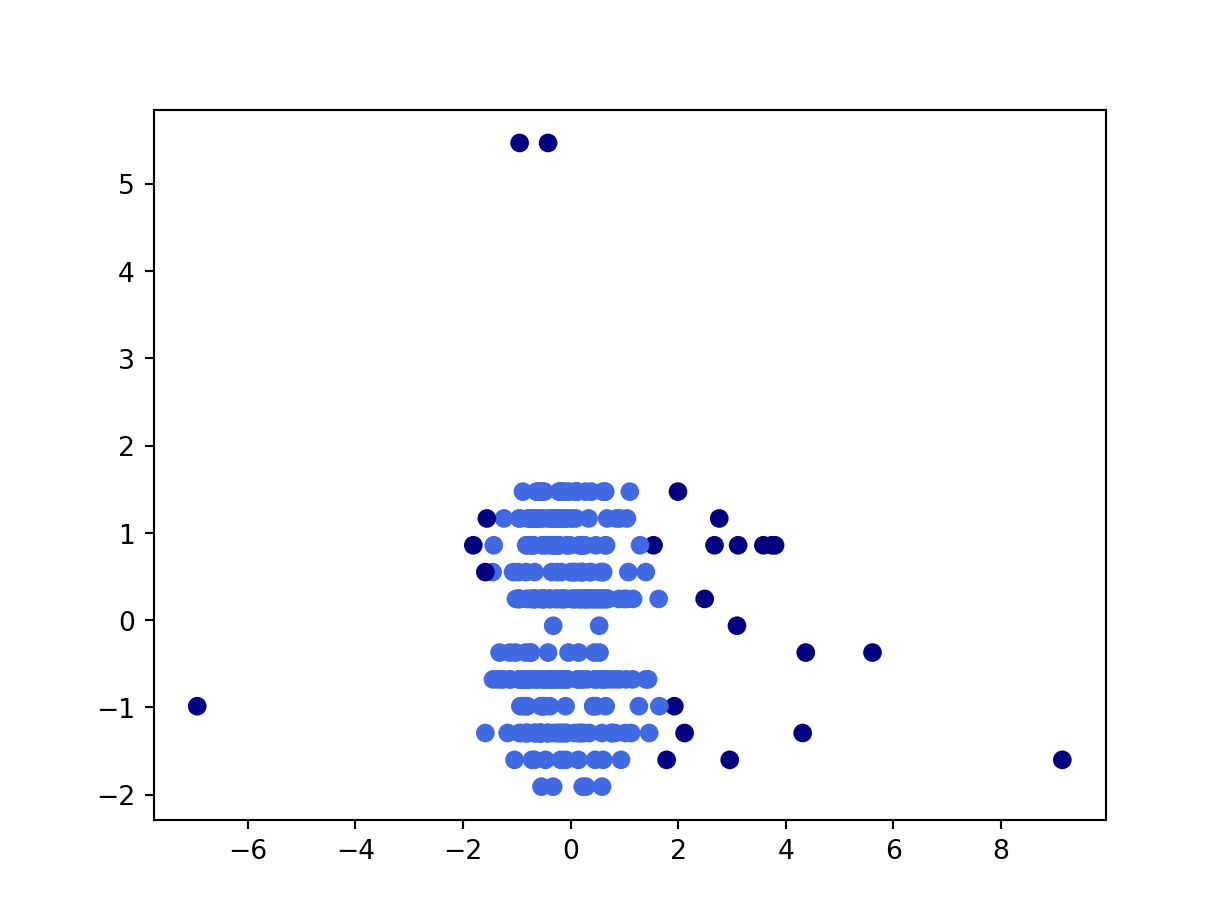
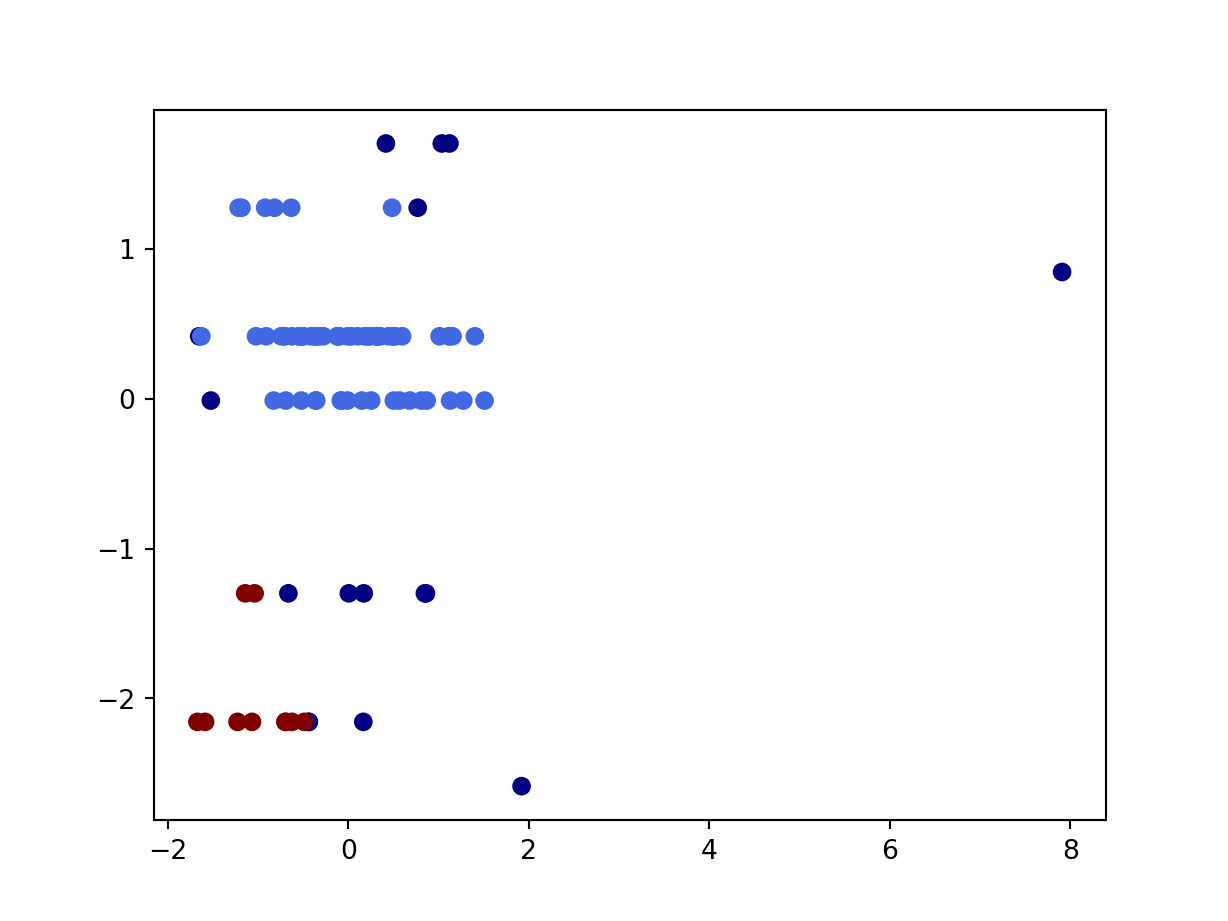
Added another song to analyses, also fixed DBSCan followed by kmedoids

diff --git a/etree-browser/templates/static/analysis.html b/etree-browser/templates/static/analysis.html
@@ -30,7 +30,7 @@
             </audio></td>
       <td>{{ row['Track duration']}}</td>
       <td>{{ row['Tempo'] }} </td>
-      <td> {{ row['Max Key']}}: {{key_names[row['Max Key']-1 ]}}</td>
+      <td> {{key_names[row['Max Key']-1 ]}}</td>
 
       <td>{{row['Labels']}}</td>
     </tr>
@@ -46,7 +46,7 @@
       <td></td>
       <td>{{track_analysis['Track duration'].median() }}</td>
       <td>{{track_analysis['Tempo'].median() }}</td>
-      <td>{{ track_analysis['Max Key'].mode()[0]}}: {{key_names[track_analysis['Max Key'].mode()[0]-1] }}</td>
+      <td>: {{key_names[track_analysis['Max Key'].mode()[0]-1] }}</td>
       <td> </td>
     </tr>
   </tfoot>

diff --git a/etree-browser/cluster_service.py b/etree-browser/cluster_service.py
@@ -4,6 +4,7 @@
 # aggregate the results
 import pandas as pd
 from models import TrackModel
+import math
 import random
 import pandas as pd
 import pandas as pd
@@ -35,28 +36,54 @@ class ClusterService:
     def get_dbscan_for_track(self, artist_name, track_name):
 
         # ############################### Data prep #################################
-
+        #hardcoded matrix of distances between keys in circle of fifths
+        key_dist = np.zeros(shape=(12, 12))
+        for ri, row in enumerate(key_dist):
+            for ci, col in enumerate(row):
+                dif = abs(ci - ri)
+                if dif <= 6:
+                    key_dist[ri][ci] = abs(ci - ri)
+                else:
+                    key_dist[ri][ci] = 12 - abs(ci - ri)
 
         track_analysis = self.model.get_analysis_for_track(artist_name,track_name)
 
         features =  track_analysis[['Track duration','Tempo','Max Key']]
+        # scale and standardize
+        #scale duration,tempo,key
+        #X = StandardScaler().fit_transform(features)
+        # reduce to two dimensions
+        #X = PCA(n_components=2).fit_transform(X)
 
+        #isolate DURATION,TEMPO
         reducable_frame = features[['Track duration','Tempo']]
-        print(str(reducable_frame))
-        #scale and standardize
+
+        ######## TIME AND TEMPO ############
         scaled_cols = StandardScaler().fit_transform(reducable_frame)
-        print(str(scaled_cols))
+        #print(str(scaled_cols))
+
         #reduce to two dimensions
-        reduced_cols = PCA(n_components=1).fit_transform(scaled_cols)
-        print(str(reduced_cols))
+        reduced_cols =  PCA(n_components=1).fit_transform(scaled_cols)
         reduced_floats = []
+        # this isolates the feature(s) describing tempo and duration
+        for row in reduced_cols:
+            reduced_floats.append(row[0])
+
+        reduced_data = pd.DataFrame({'reduced': reduced_floats})
+
+
+        #print(str(reduced_cols))
+
+        ############ KEYS ###########
         key_col = []
 
         keys = track_analysis[['Max Key']].values
 
         for row in keys:
             #enumerate the minor keys with the same index as their relative major keys (same key signature)
-            if row[0] == 21:
+            if row[0] == 24:
+                key == math.nan
+            elif row[0] == 21:
                 key = 0
             elif row[0] == 16:
                 key = 1
@@ -84,7 +111,9 @@ class ClusterService:
                 key = row[0]
             key_col.append(key)
 
-        #reorder the keys
+        #not all keys will be in the [0,11] range
+
+        #reorder the keys, C, G, D, A instead of C, C#, D, D#
         keys_mapped = []
         for row in key_col:
             if row % 2 == 0:
@@ -99,19 +128,27 @@ class ClusterService:
         scaled_keys = []
         for row in scaled_lists:
             scaled_keys.append(row[0])
-        print(str(scaled_keys))
-
-        for row in reduced_cols:
-            reduced_floats.append(row[0])
-
-        reduced_data = pd.DataFrame({'reduced': reduced_floats, 'key' : scaled_keys})
+        #print(str(scaled_keys))
 
 
-        #Key preprocessing
-        print(str(reduced_data))
+        #print(str(reduced_data))
+        print(str(key_dist))
+        ##calculate dissimilarities of UNSCALED keys
+        feature_keys = np.zeros(shape=(len(keys_mapped), len(keys_mapped)))
+        for ri, row in enumerate(feature_keys):
+            for ci, col in enumerate(row):
+               # print("ROW "+str(ri)+" COLUMN " + str(ci) + str(row))
+                #print(str(len(keys_mapped)))
+                #print(str(len(key_dist)))
+                #print(str(len(feature_keys)))
+                #print(max(keys_mapped))
+                feature_keys[ri][ci] = key_dist[int(keys_mapped[ri])][int(keys_mapped[ci])]
 
+        # version of reduced data combined with keys
+        unused_data = pd.DataFrame({'reduced': reduced_floats, 'key': scaled_keys})
 
-        dissimilarities = metrics.pairwise_distances(reduced_data, metric='euclidean')
+        dissimilarities = 0.8* metrics.pairwise_distances(reduced_data, metric='euclidean') + 0.2* feature_keys
+        #dissimilarities = metrics.pairwise_distances(reduced_data, metric='euclidean')
 
         # ############################# EPSILON value ###############################
         # Epsilon and min samples
@@ -158,8 +195,7 @@ class ClusterService:
         ######################### Silhouette (min_samples) ###############################
         #mean silhoette over all samples
         print("Silhouette Coefficient: %0.3f"
-              % metrics.silhouette_score(reduced_data, clusters))
-
+              % metrics.silhouette_score(dissimilarities, clusters, metric='precomputed'))
         # ############################ Plot clustering ################################
 
         plt.figure(1)
@@ -167,42 +203,66 @@ class ClusterService:
         colors = ['royalblue', 'maroon', 'forestgreen', 'mediumorchid', 'tan', 'deeppink', 'olive', 'goldenrod',
                  'lightcyan', 'navy']
         vectorizer = np.vectorize(lambda x: colors[x % len(colors)])
-        plt.scatter(reduced_data.values[:, 0], reduced_data.values[:, 1], c=vectorizer(clusters))
+        plt.scatter(reduced_data,scaled_keys, c=vectorizer(clusters))
         plt.savefig('dbscan.png', dpi=192)
 
-        #display the cluster labels and their size
+
+
+        #append labels to output dataset
+
+        outlier_indices = []
+        #get outlier indices
+        for index,label in enumerate(clusters):
+            if label == -1:
+                outlier_indices.append(index)
+
+
+        dissimilarities = np.delete(dissimilarities, outlier_indices,axis = 0)
+        dissimilarities = np.delete(dissimilarities, outlier_indices, axis = 1)
+        scaled_keys = np.delete(scaled_keys, outlier_indices)
+        reduced_floats = np.delete(reduced_floats, outlier_indices, axis=0)
+        non_outlier_labels= self.get_kmedoids_for_track( artist_name, track_name,dissimilarities,reduced_floats,scaled_keys)
+
+        #update "clusters" labels based on kmedoids output
+        non_ouliers_index= 0
+        for index,label in enumerate(clusters):
+            if label != -1:
+                clusters[index] = non_outlier_labels[non_ouliers_index]
+                non_ouliers_index+=1
+
+        track_analysis['Labels'] = pd.Series(clusters, index=track_analysis.index)
+        # display the cluster labels and their size
         unique_elements, counts = np.unique(clusters, return_counts=True)
         print(np.asarray((unique_elements, counts)))
 
-        #append labels to output dataset
-        track_analysis['Labels'] = pd.Series(clusters, index=track_analysis.index)
         return track_analysis
 
-    def get_kmedoids_for_track(self, artist_name, track_name):
+    def get_kmedoids_for_track(self, artist_name, track_name, diss,reduced_data,scaled_keys):
+
         ############################ Data prep #####################################
 
         track_analysis = self.model.get_analysis_for_track(artist_name,track_name)
 
         features = track_analysis[['Track duration', 'Tempo','Max Key']]
         # scale and standardize
-        X = StandardScaler().fit_transform(features)
+        #X = StandardScaler().fit_transform(features)
         # reduce to two dimensions
-        X = PCA(n_components=2).fit_transform(X)
+        #X = PCA(n_components=2).fit_transform(X)
 
         #Cluster number will be 3
-        initial_medoids = [50,175,300]
+        initial_medoids = [50,175,200]
 
         ############################ Execute kmedoids #####################################
         metric = distance_metric(type_metric.EUCLIDEAN)
-
-        kmedoids_instance = kmedoids(X.tolist(), initial_medoids,metric = metric)
+        kmedoids_instance = kmedoids(diss, initial_medoids, data_type='distance_matrix')
+        #kmedoids_instance = kmedoids(X, initial_medoids,metric = metric)
         kmedoids_instance.process()
         clusters = kmedoids_instance.get_clusters()
         medoids = kmedoids_instance.get_medoids()
 
         #distances = 0.5*np.array(time_tempo_dist) + 0.5*np.array(feature_keys)
         # create K-Medoids algorithm for processing distance matrix instead of points
-        #kmedoids_instance = kmedoids(distances, initial_medoids, data_type='distance_matrix')
+
 
 
         #fix the output representation (clusters matrix) into the one required by my
@@ -212,15 +272,15 @@ class ClusterService:
             list[0] = index
 
         print(medoids)
-        labels = np.zeros(len(track_analysis),dtype=int)
-        for list in enumerate(clusters):
+        labels = np.zeros(len(diss),dtype=int)
+        for list in clusters:
             for index_item in list:
                 labels[index_item] = list[0]
         ######################### Silhouette (min_samples) ###############################
-
+        X  = pd.DataFrame({'reduced': reduced_data, 'key': scaled_keys})
         # mean silhoette over all samples
         print("Silhouette Coefficient: %0.3f"
-        % metrics.silhouette_score(X, labels))
+        % metrics.silhouette_score(diss, labels, metric = 'precomputed'))
 
         ############################# Plot clustering ################################
 
@@ -230,7 +290,7 @@ class ClusterService:
                   'lightcyan', 'navy']
 
         vectorizer = np.vectorize(lambda x: colors[x % len(colors)])
-        plt.scatter(X[:, 0], X[:, 1], c=vectorizer(labels))
+        plt.scatter(reduced_data,scaled_keys, c=vectorizer(labels))
 
         plt.savefig('kmedoids.png', dpi=192)
 
@@ -239,5 +299,5 @@ class ClusterService:
         print(np.asarray((unique_elements, counts)))
 
         #add labels to output features
-        track_analysis['Labels'] = pd.Series(labels, index=track_analysis.index)
-        return track_analysis
+        #track_analysis['Labels'] = pd.Series(labels, index=track_analysis.index)
+        return labels#track_analysis

diff --git a/etree-browser/templates/etree/views.py b/etree-browser/templates/etree/views.py
@@ -73,9 +73,9 @@ def analysis_one():
 def analysis():
 
     #these can be used to display actual key instead of key numbers
-    key_names = ["C", "Db / C#", "D", "Eb / D#", "E", "F", "Gb / F#", "G", "Ab / G#", "A", "Bb", "B/Cb",
-                 "Cm", "Dbm / C#m", "Dm", "Ebm / D#m", "Em", "Fm", "Gbm / F#m", "Gm", "Abm / G#m", "Am", "Bbm",
-                 "Bm/Cbm", "unknown"]
+    key_names = ["0: C", "7: Db / C#", "2: D", "9: Eb / D#", "4: E", "11: F", "6: Gb / F#", "1: G", "8: Ab / G#", "3: A", "10: Bb", "5: B/Cb",
+                 "21: Cm", "16: Dbm / C#m", "23: Dm", "18: Ebm / D#m", "13: Em", "20: Fm", "15: Gbm / F#m", "22: Gm", "17: Abm / G#m", "12: Am", "19: Bbm",
+                 "14: Bm/Cbm", "unknown"]
     artist = request.args.get('artist')
     track = request.args.get('track')
     artist_name = urllib.parse.unquote(artist)

diff --git a/etree-browser/models.py b/etree-browser/models.py
@@ -570,8 +570,8 @@ class TrackModel:
                                                             ?track etree:audio ?audio_link.
                                                             ?track etree:isSubEventOf ?performance.
                                                             ?performance etree:date ?perf_date.
-FILTER (regex(?track_name, "Zero", "i")).
-                                                            FILTER (regex(?art_name, "Smashing Pumpkins", "i"))} ORDER BY(?perf_date)""")
+FILTER (regex(?track_name, '"""+track_name+"""', "i")).
+                                                                    FILTER (regex(?art_name, '"""+artist_name+"""', "i"))} ORDER BY(?perf_date)""")
         self.sparql.setReturnFormat(JSON)
         calma_track = self.sparql.query().convert()["results"]["bindings"]
 

diff --git a/etree-browser/calma_parser.py b/etree-browser/calma_parser.py
@@ -7,8 +7,8 @@ import tarfile
 import re
 from model_service import TrackService
 from operator import itemgetter
-artist_name = "Smashing Pumpkins"
-track_name = "Zero"
+artist_name = "Grateful Dead"
+track_name = "Ripple"
 mean_tempos = []
 
 calma_links,audio_links, perf_dates,track_names = TrackService().get_calma_track(artist_name,track_name)
@@ -143,7 +143,7 @@ for perf_index in range(0,no_of_perfs):
         url = blob_link
         # print(url)
         regex = "(?:analysis_blob)(.*)"
-        target_path = 'analysis_blob' + re.findall(2, url)[0]
+        target_path = 'analysis_blob' + re.findall(regex, url)[0]
         # target_path = 'analysis_blob_73e77ba8-c990-41af-b912-802fbbbaf2a9.tar.bz2'
 
         response = requests.get(url, stream=True)
